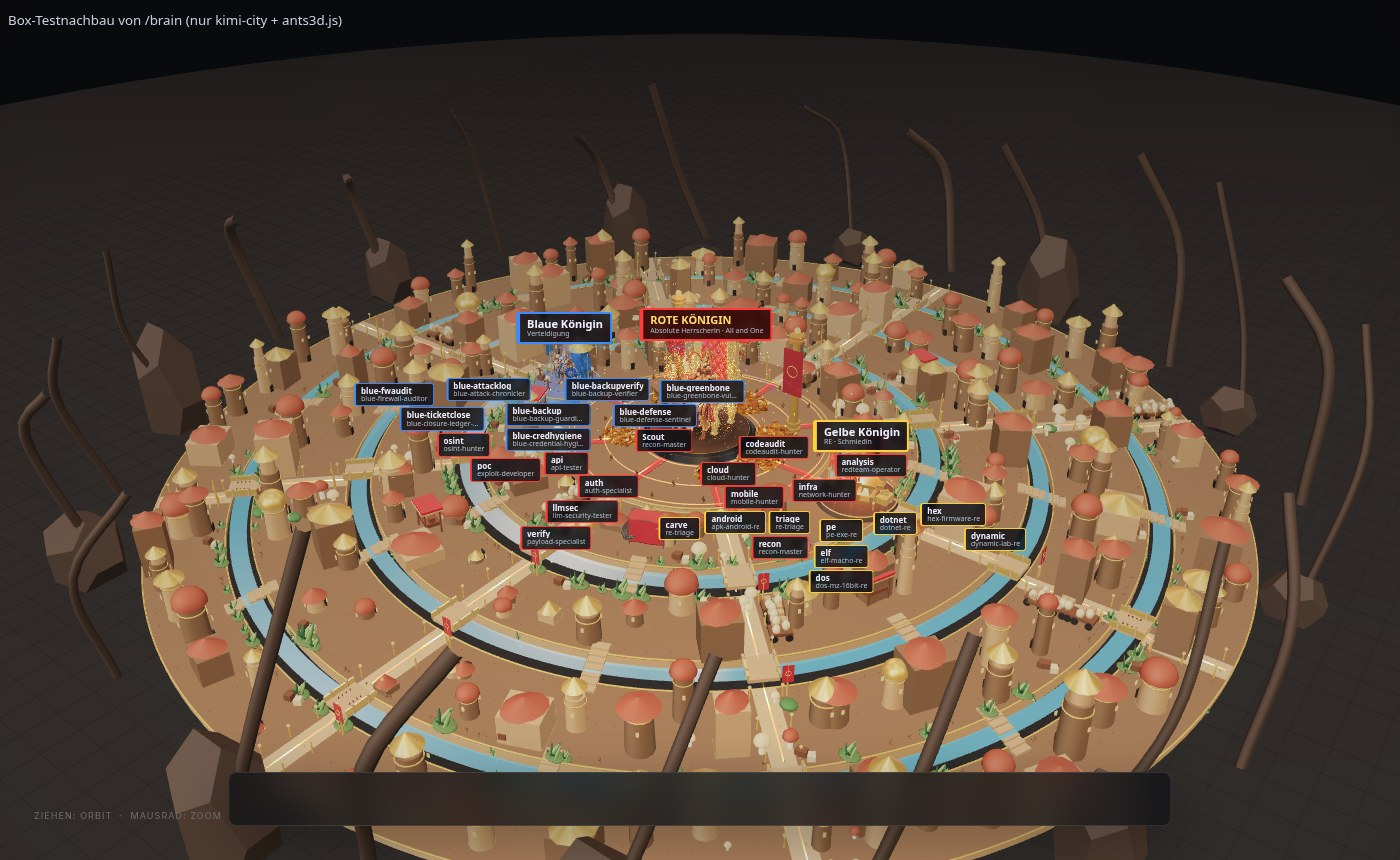
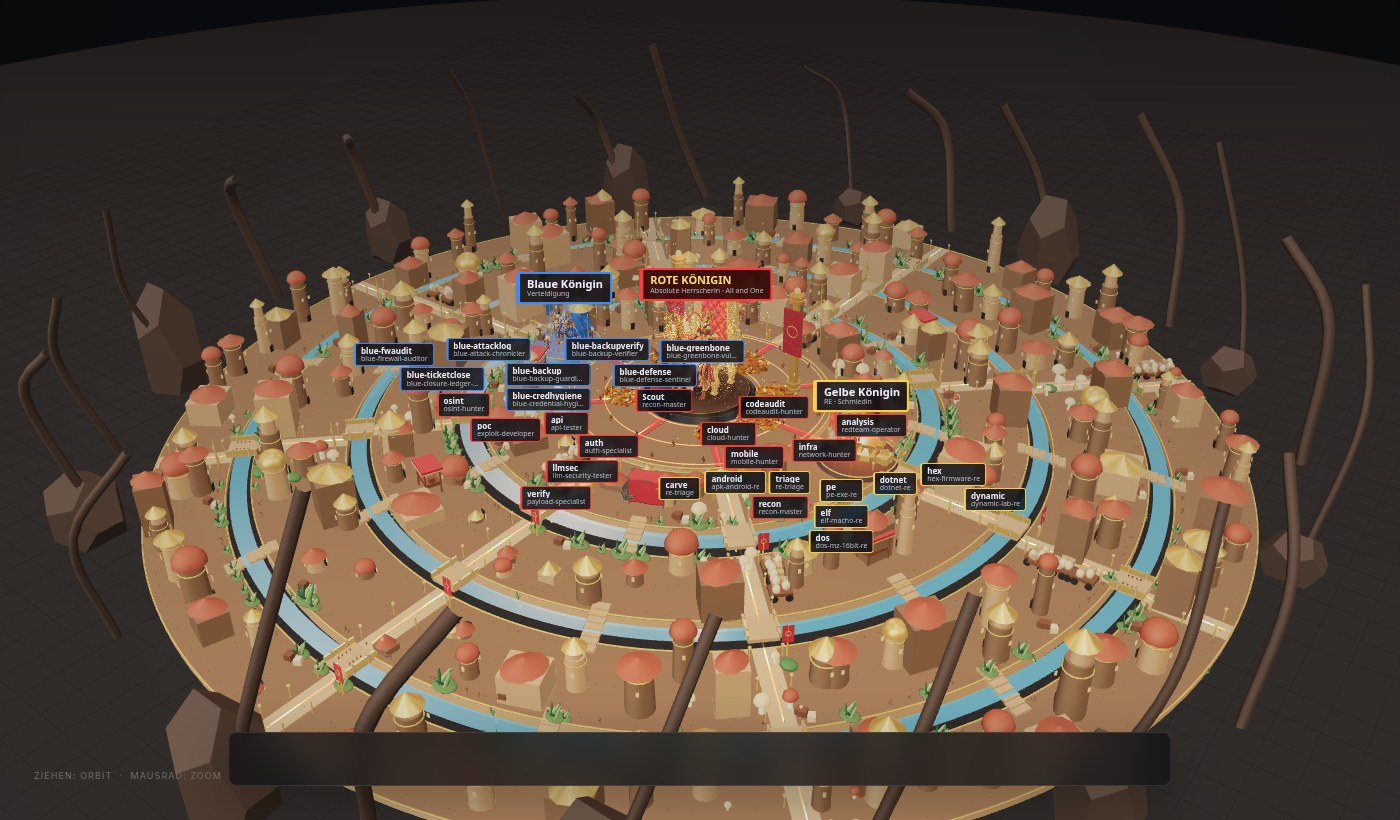
docs: Späher-Render im Funk-Labor, sauberes Neuronales-Gehirn-Bild, Betriebsstand aus Echt-oder-Mock-Bestandsaufnahme und Roadmap ergänzt

diff --git a/README.md b/README.md
@@ -71,6 +71,12 @@ WLAN-Scope (Allowlist), Coverage & Scan (passiv und Königin-Voll-Scan mit rein 
 
 **Späher (Scout):** Im Tab *Coverage & Scan* zeigt `/wlan` den WLAN-Späher als 3D-Modell (`queen-viewer.js`, Modell `archer.glb`) neben dem Königin-Voll-Scan und den erkannten Geräten. Ohne WebGL erscheint statt des Modells nur der Text-Hinweis „WebGL nicht verfügbar“ (Text-Fallback).
 
+| Späher |
+|---|
+| ![Späher](docs/screenshots/scout.png) |
+
+*Echter Render des Späher-Modells (`archer.glb`) aus `queen-viewer.js`, im selben Stil wie die Königinnen.*
+
 ![WLAN-Späher auf /wlan](docs/images/wlan-scout.png)
 
 Erkannte Geräte im Funk-Labor:
@@ -100,6 +106,8 @@ Erkannte Geräte im Funk-Labor:
 
 Route `/blue`. 25 Soldaten (Greenbone, Hardening, Watcher, AV/ClamAV, Remediation, Re-Check).
 
+> **Betriebsstand (Bestandsaufnahme 01.11.2026):** Greenbone ist eingebaut, auf dem Referenz-Laptop läuft der Dienst aber nicht (gvmd/Socket und `python-gvm` fehlen) – der Report-Import aus Datei funktioniert. Der ClamAV-Scan ist echt; `freshclam` und `clamd` laufen dort nicht als Dienst. Canary/Fallen sind echt, lauschen aber nur auf Loopback und sind flüchtig.
+
 ![Blue Queen – Seitenkopf](docs/images/blue-queen.png)
 
 ![Blue Queen](docs/screenshots/shot-heute-blue.jpg)
@@ -116,6 +124,8 @@ Route `/blue`. 25 Soldaten (Greenbone, Hardening, Watcher, AV/ClamAV, Remediatio
 ## Yellow Queen – Reverse Engineering
 
 Route `/yellow`. 9 RE-Soldaten (triage, pe, dotnet, android, elf, hex, carve, dos, dynamic), Ghidra/ghidra-mcp.
+
+> **Betriebsstand (Bestandsaufnahme 01.11.2026):** Die normale Fall-Pipeline ist echt (`file`, `strings`, `readelf`, `rizin`, Live-JSONL). Die Orchestrate-Schritte haben derzeit einen Pfadfehler (`orchestrator.py`: `DATA_DIR/cases` statt `CASES_DIR/<id>/evidence`); `analyzeHeadless` (Ghidra headless), `capa` und `floss` sind auf dem Referenzsystem nicht installiert.
 
 ![Yellow Queen – Seitenkopf](docs/images/yellow-queen.png)
 
@@ -296,6 +306,12 @@ Danach im Browser: `http://<host>:1001` — Hub → Königin wählen → Ziel an
 ## Roadmap
 
 Offene Punkte (noch nicht umgesetzt):
+
+- **Yellow:** Pfadfix in den Orchestrate-Schritten und Ghidra headless (`analyzeHeadless`) anbinden.
+- **Persistenter Honeypot** mit Speicherung in `attack_events`.
+- **Manipulationssicheres Audit-Log** (`/audit`).
+- **Greenbone-Dienst** betriebsbereit machen (gvmd, `python-gvm`).
+- **Watcher-Event-Quelle** (auditd) für die Blue Queen.
 
 - **3D-Gebäude je Wissensstufe:** Die Ausbaustufe wird bereits berechnet und angezeigt; die passenden Gebäude in der 3D-Stadt fehlen noch.
 - **Schaufenster-/Demo-Version ohne Backend:** statische Vorschau der Oberfläche ohne laufenden Server.
